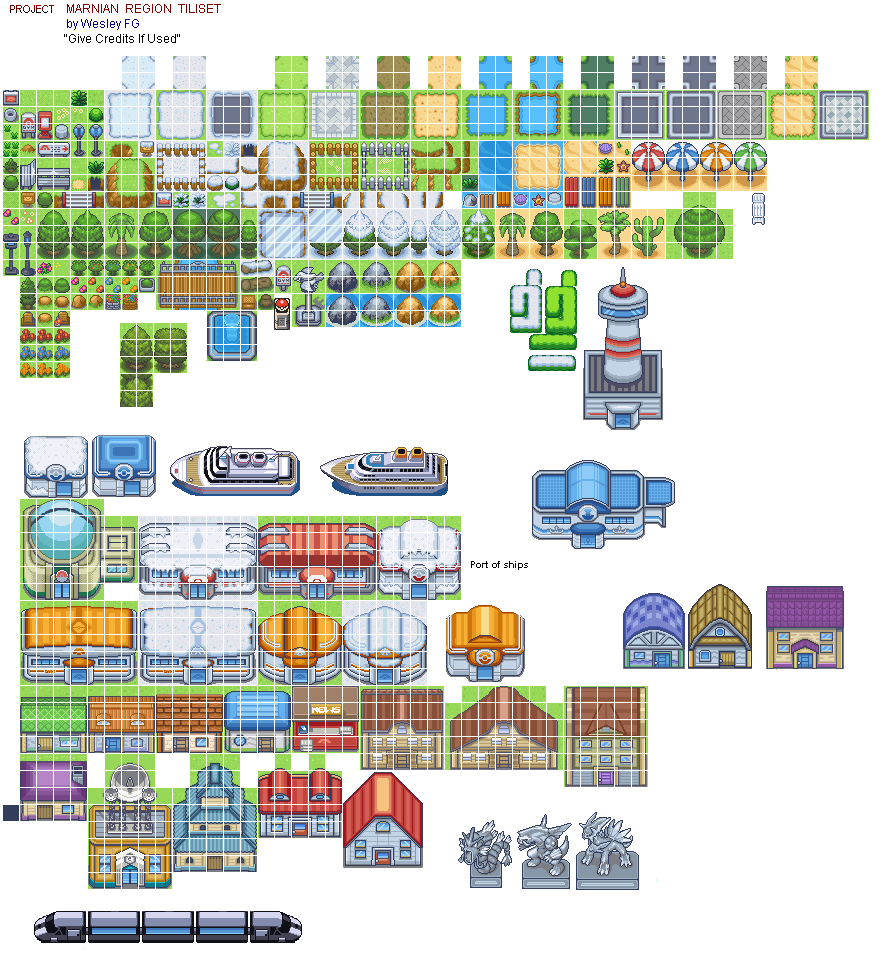
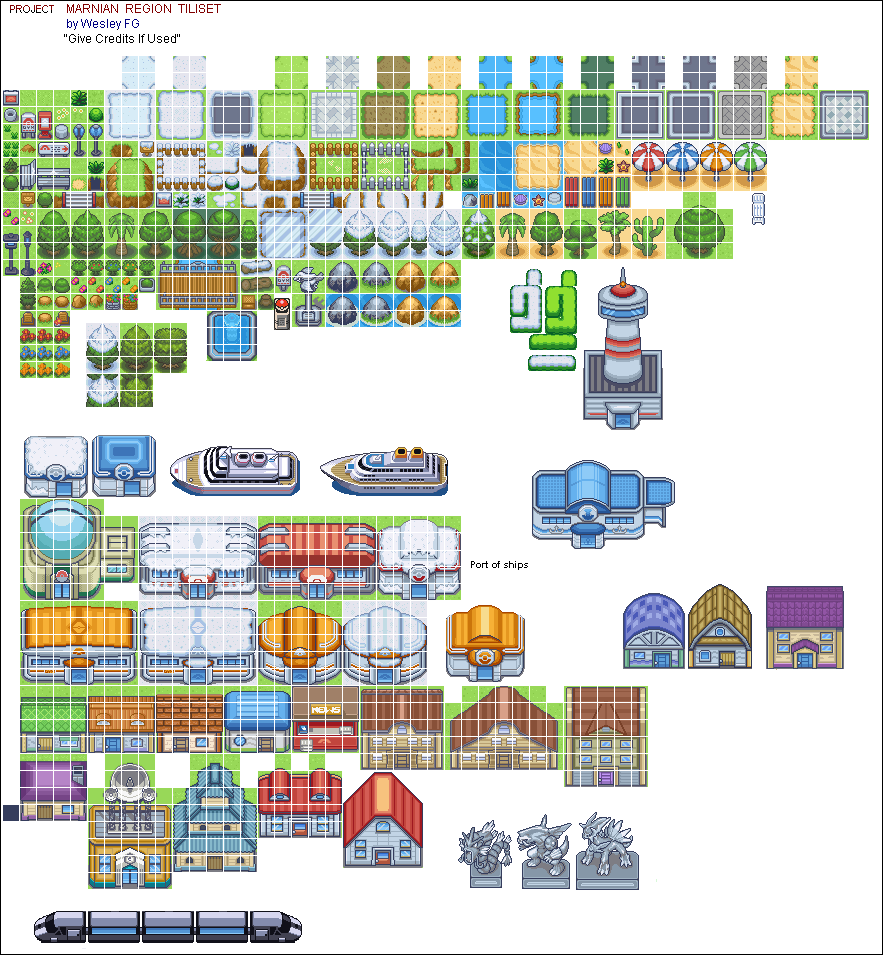
ajout de nouvelles tiles ! environ 50 nouvelles tiles !

Changed region(s): [[0.0917, 0.334, 0.1529, 0.4251]]

diff --git a/src/constantes.py b/src/constantes.py
@@ -128,7 +128,7 @@ BUILDING = 12
 BUILDING_GET_ERROR = -9
 TILE_GET_ERROR = -10
 
-TILES_RDM_CREATURES = ['6', '68']
+TILES_RDM_CREATURES = ['6', '68', '170', '198']
 
 LUCK_RDM_CREA = [0, 2]
 
